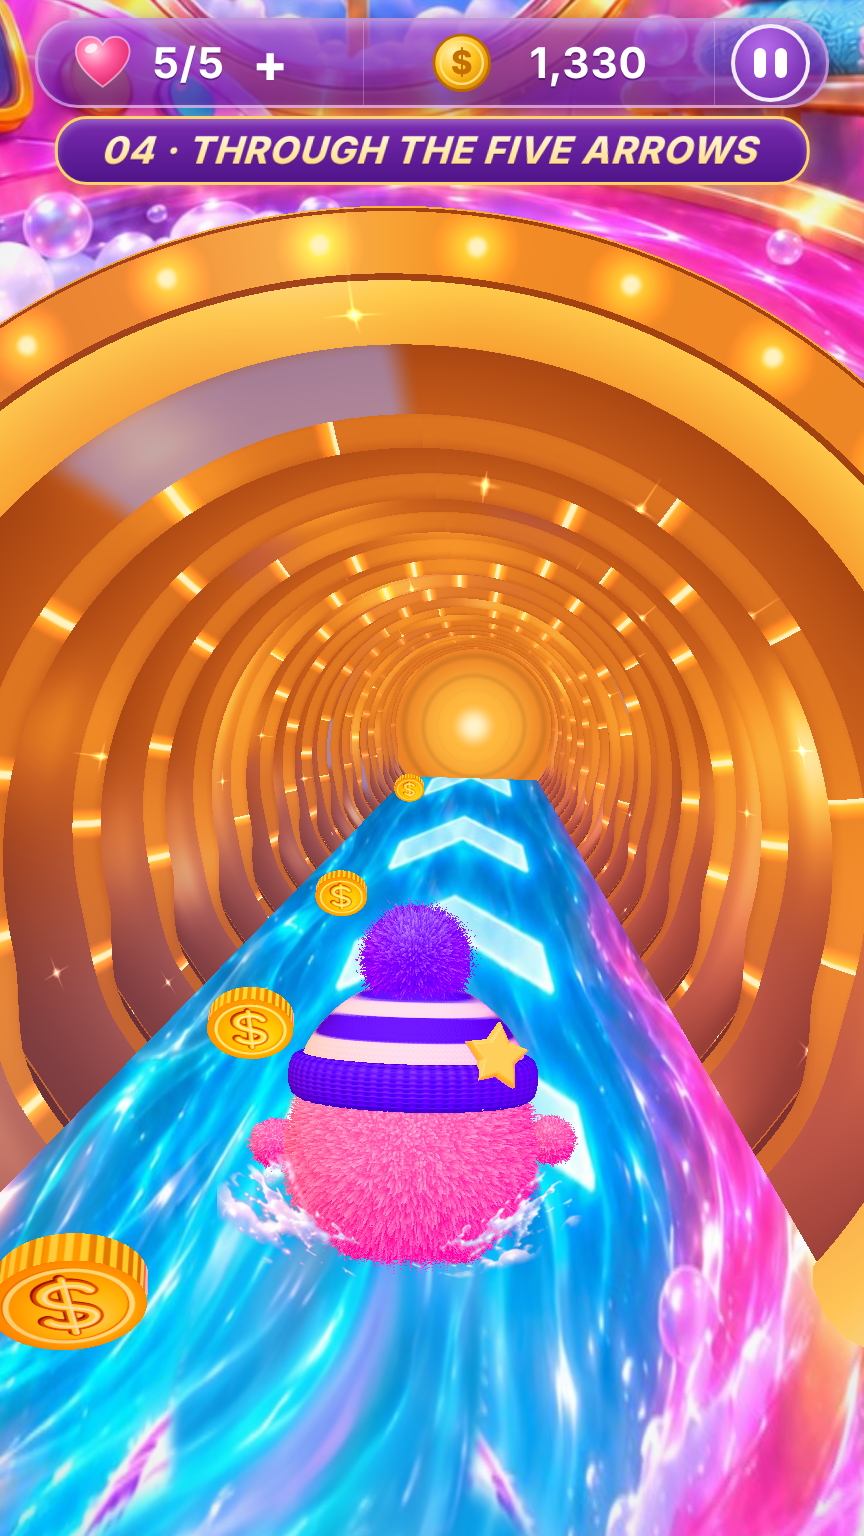
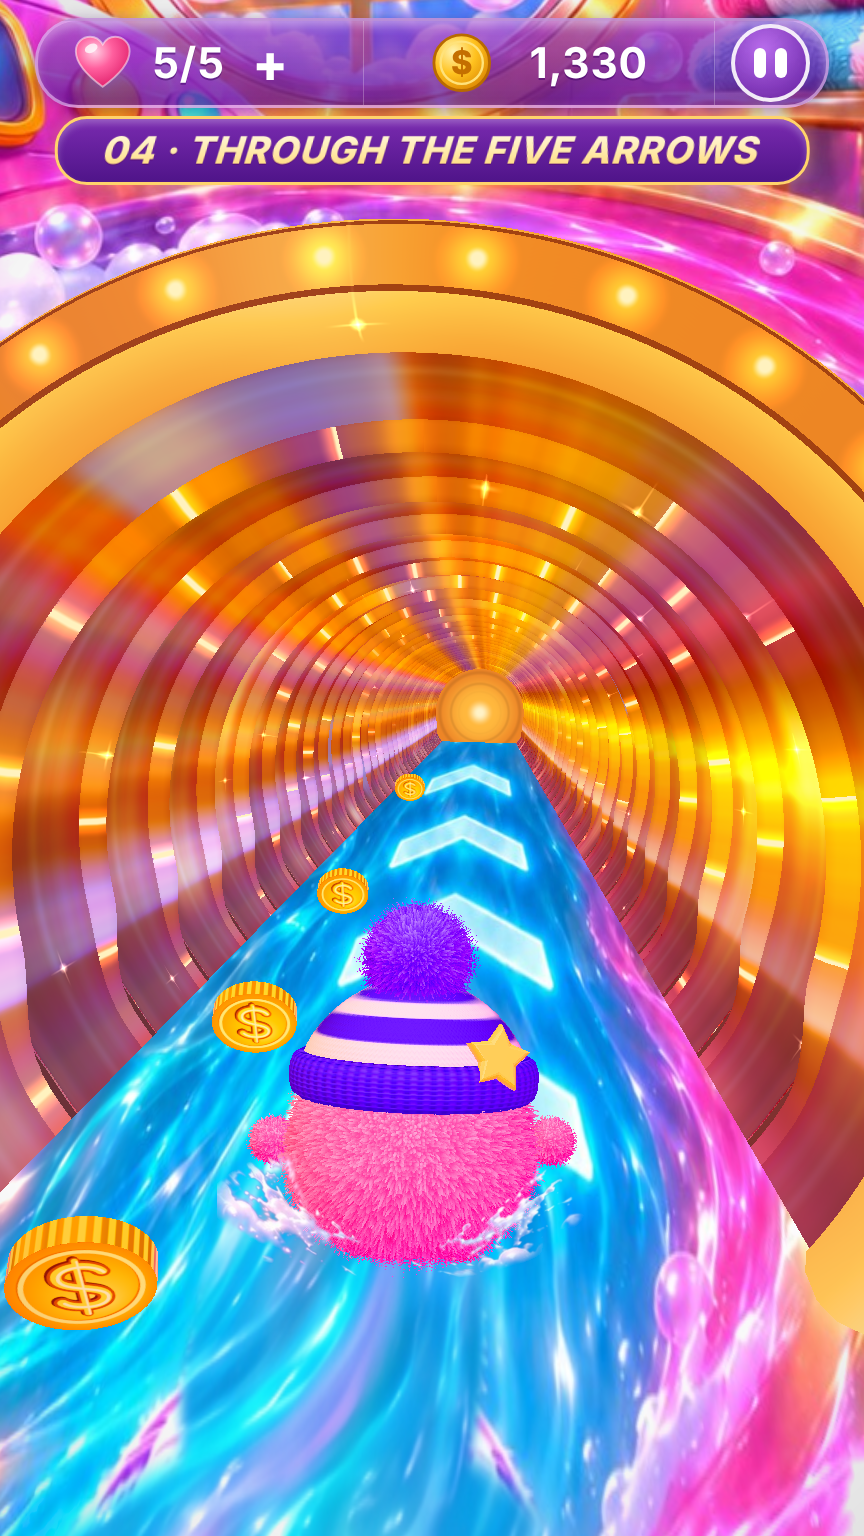
Screen 04 r8 step 1: &m04ring=1 modeled polished gold-ring tunnel (crisp nested rings, painted ring colours, amber lip spots, small far glow; approved view unchanged)

diff --git a/src/world/match04m4.ts b/src/world/match04m4.ts
@@ -297,7 +297,7 @@ export function addM04(ctx: M04Ctx) {
       vertexShader: VERT, fragmentShader: GOLD_FRAG, side: THREE.DoubleSide, fog: false, extensions: { derivatives: true } as never,
       uniforms: { uPlate: shared.uPlate, uPjPost: shared.uPjPost, uPjRes: shared.uPjRes, uProjVP: shared.uProjVP,
         uAway: away, uAxO: { value: axO }, uAxD: { value: axD }, uAxU: { value: axU }, uAxR: { value: axR }, uNB: { value: M04.num('m04nb', 28) },
-        uP: { value: M04.num('m04ringp', 2.6) }, uLipBulb: { value: M04.num('m04lipbulb', 1) }, uBulbR: { value: (r + ctx.outerR) / 2 }, uLen: { value: len }, uRingTile: { value: ringTile }, uPaint: { value: M04.num('m04paint', 1.0) }, uTone: { value: new THREE.Vector4(M04.num('m04tb', 0.11), M04.num('m04tl', 0.38), M04.num('m04tm', 0.5), M04.num('m04ts', 0.45)) } },
+        uP: { value: M04.num('m04ringp', 2.6) }, uLipBulb: { value: M04.num('m04lipbulb', 1) }, uBulbR: { value: (r + ctx.outerR) / 2 }, uLen: { value: len }, uRingTile: { value: ringTile }, uPaint: { value: M04.num('m04paint', 1.4) }, uTone: { value: new THREE.Vector4(M04.num('m04tb', 0.11), M04.num('m04tl', 0.38), M04.num('m04tm', 0.5), M04.num('m04ts', 0.45)) } },
     });
     const P = M04.num('m04ringp', 2.6); // ring period along the tunnel (painted ring spacing seen from the approved camera)
     // stepped polished washers: per period a broad band narrowing slightly toward the glow (faces the camera like the

diff --git a/src/world/match04.ts b/src/world/match04.ts
@@ -17,7 +17,7 @@
  */
 import * as THREE from 'three';
 import { PROJ05_INVERSE } from '../vfx/waterRibbon';
-import { addM04 } from './match04m4';
+import { addM04, M04 } from './match04m4';
 
 interface Layout04 {
   camera: { matrixWorld: number[]; fov: number; size: [number, number] };
@@ -220,7 +220,8 @@ export async function buildMatch04(): Promise<Match04> {
   const add = (g: THREE.BufferGeometry, m: THREE.Material, name: string) => { const o = new THREE.Mesh(g, m); o.name = 'm04_' + name; group.add(o); return o; };
 
   const T = L.tube;
-  const cx = T.ax - L.water[0], cy = T.h, z0 = -T.mouthS, len = 48;
+  // round 8 `&m04ring=1`: the tunnel (and the water in it) runs on to 90 u so its far end is the painted small glow, not a disc
+  const cx = T.ax - L.water[0], cy = T.h, z0 = -T.mouthS, len = M04.ring ? M04.num('m04len', 90) : 48;
   const rv = tiles.river;
   riv3A.w = T.mouthS;
   const M = {

diff --git a/qa/match/04/r8/PROGRESS.md b/qa/match/04/r8/PROGRESS.md
@@ -1,0 +1,27 @@
+# Screen 04 — round 8 progress (small steps, `?match04=1` + sub-switches; default build untouched)
+
+BEFORE pictures (12 audit positions, `?match04=1`): `/home/user/wt/s04/qa/match/04/r8/BEFORE/` (`metrics.txt`).
+Every NEW set below is rendered with `node tools/match04/audit04.mjs <dir> "<query>" <shots>` (= the lead's
+`tools/lead_r6/motion_audit.mjs`, same positions and names, subset of shots).
+
+## Step 1 — `?match04=1&m04ring=1` — the gold-ring tunnel as real modeled polished rings (kept)
+* **What looks better while swimming:** the tunnel ahead is no longer a giant blurred orange glow with smeared rings.
+  It is now a long tunnel of crisp, nested polished gold rings — each ring a broad glossy band that brightens toward a
+  bright rounded lip with small amber light spots, thin dark grooves between rings — carrying the painted pink, violet
+  and yellow reflections of the approved rings (colour taken from the approved picture's own ring, `tile_ring.png`),
+  and it narrows to a small bright warm glow far ahead like the painted vanishing point (the tunnel now runs 90 u, so
+  the far end is no longer a big flat orange disc). The rings stay sharp at every distance (3 → 35 u), and the gold
+  washer opening is a modeled thick gold ring with its row of amber bulbs as Benny approaches it.
+* **Approved view unchanged:** deterministic capture `node scripts/capture.mjs 04 --q=match04=1&m04ring=1` →
+  whole frame 81.4 % within 20 levels (SSIM 0.814), scenery 98.2 % — identical to `?match04=1`.
+* **Measured (moving, vs the approved picture, `motion_metrics.py`)**: PALETTE BEFORE → NEW: f06 73.7 → 67.0 %,
+  t33 62.2 → 64.6 %, t66 63.3 → 68.1 %, t95 61.8 → 63.8 %. LAYOUT20 (blurred composition) falls 9.2/7.2/4.6/2.8 →
+  3.5/3.3/2.4/2.3 % (the blurred BEFORE haze happens to match broad orange areas of the picture; crisp rings do not).
+* **Still wrong:** the water inside the tunnel is still a flat ramp with hard straight edges against the walls (no
+  foam banks / bubbles yet); the arrows near the camera are still the magnified soft painted arrow; the rings are a
+  little denser and more evenly striped than the painted ones; the washer opening's procedural gold is less detailed
+  than the painted one when seen up close at 3–6 u.
+* BEFORE: `/home/user/wt/s04/qa/match/04/r8/BEFORE/f06_forward6u.png`, `.../BEFORE/t33_through_screen.png`,
+  `.../BEFORE/t66_through_screen.png`, `.../BEFORE/t95_through_screen.png`
+* NEW: `/home/user/wt/s04/qa/match/04/r8/step1_m04ring/f06_forward6u.png`, `.../step1_m04ring/t33_through_screen.png`,
+  `.../step1_m04ring/t66_through_screen.png`, `.../step1_m04ring/t95_through_screen.png`
